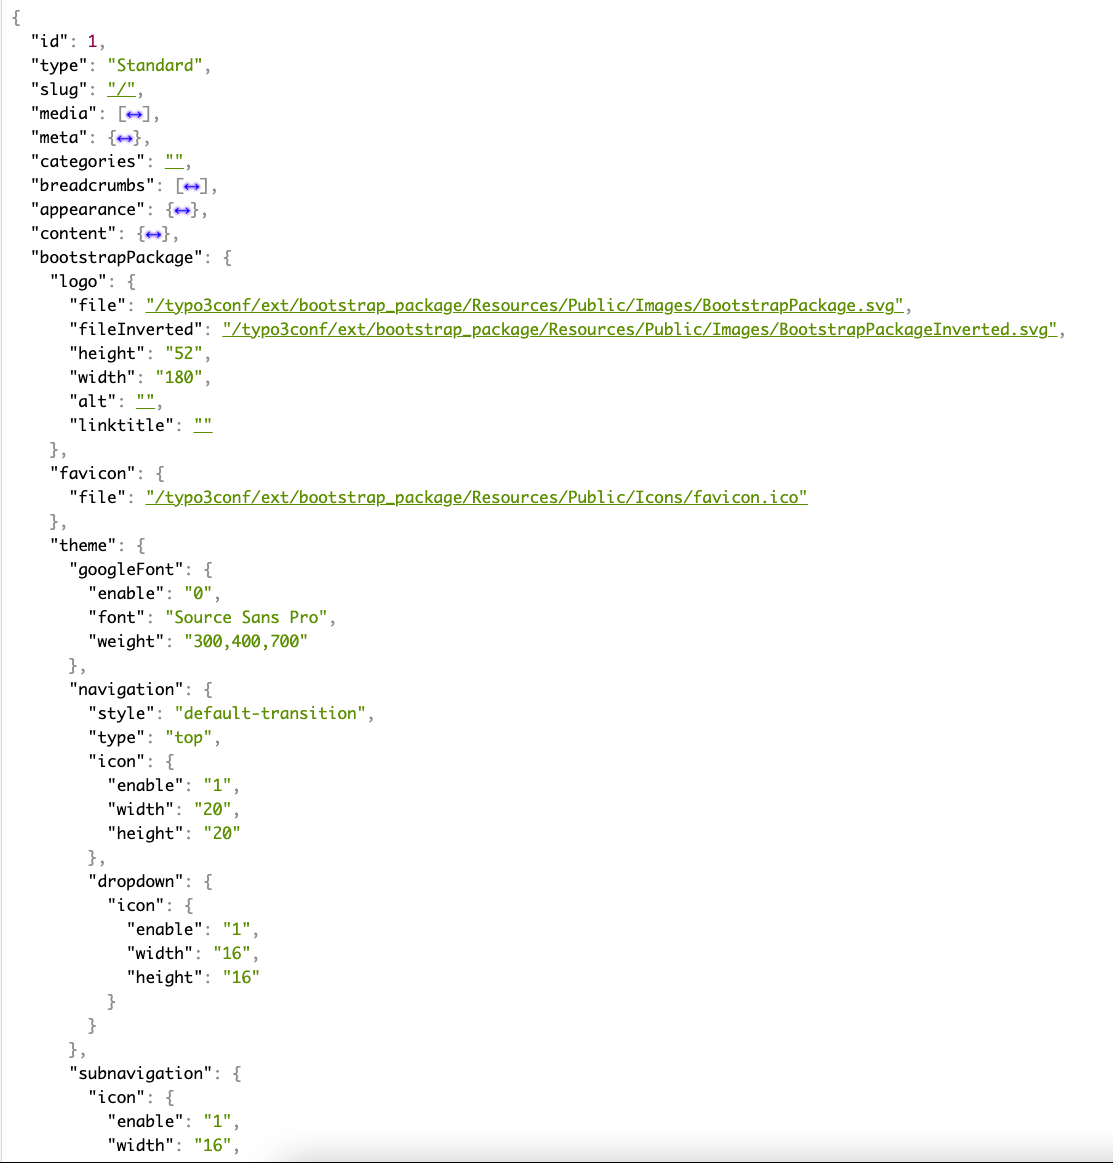
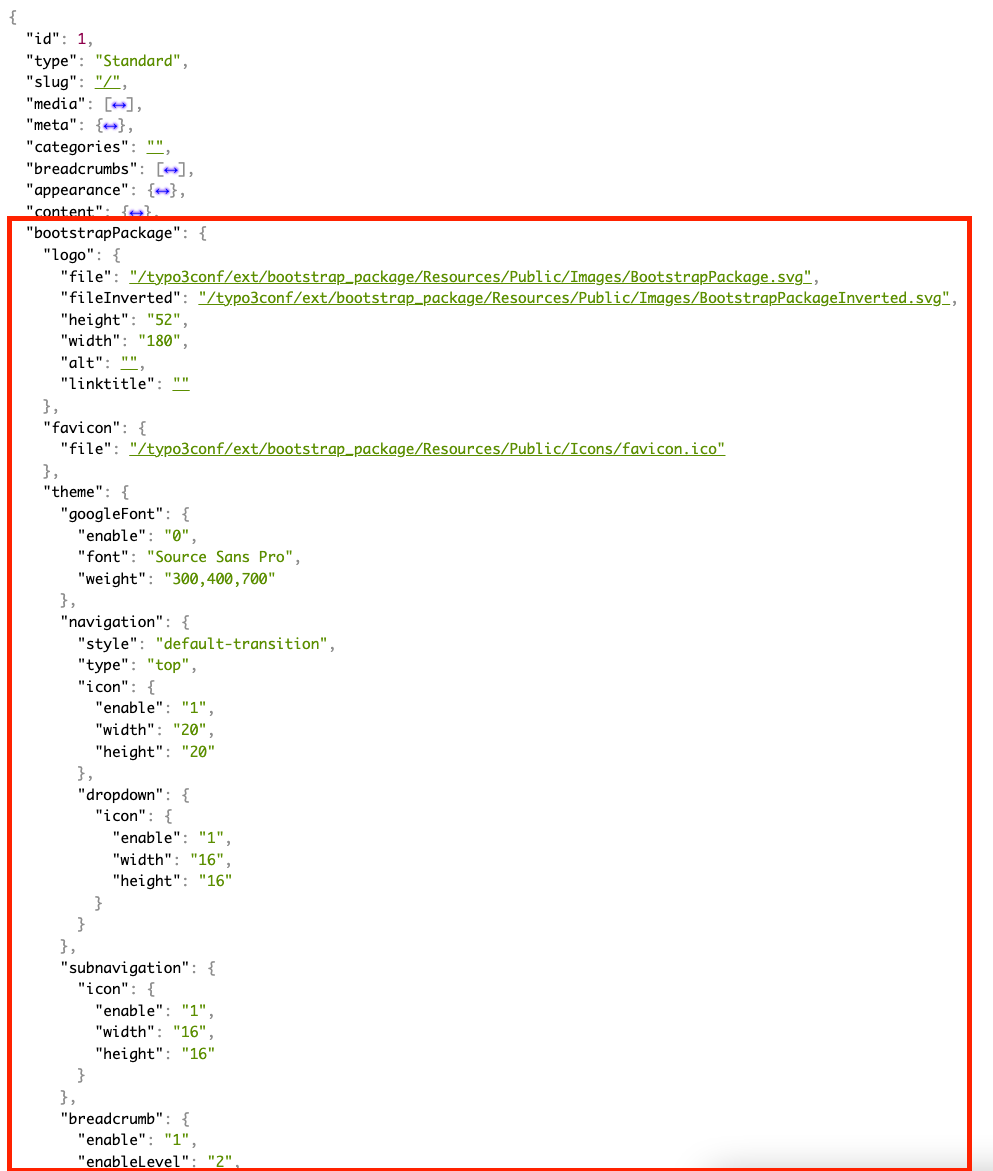
Fixed typo, added tests for page.meta fields and updated screenshots

Changed region(s): [[0.0, 0.031, 0.999, 1.0]]

diff --git a/Tests/Functional/BootstrapPackageConstantsInResponseTest.php b/Tests/Functional/BootstrapPackageConstantsInResponseTest.php
@@ -33,6 +33,7 @@ class BootstrapPackageConstantsInResponseTest extends BaseTest
         $this->checkFaviconData($config);
         $this->checkThemeData($config);
         $this->checkTrackingData($config);
+        $this->checkMetaData($fullTree['meta']);
     }
 
     /**
@@ -131,5 +132,17 @@ class BootstrapPackageConstantsInResponseTest extends BaseTest
         self::assertArrayHasKey('google', $config['tracking']);
         self::assertCount(1, $config['tracking']['google']);
         self::assertArrayHasKey('trackingID', $config['tracking']['google']);
+    }
+
+    /**
+     * @param array<string, mixed> $metaData
+     */
+    public function checkMetaData(array $metaData): void
+    {
+        self::assertEquals('width=device-width, initial-scale=1, minimum-scale=1', $metaData['viewport']);
+        self::assertEquals('index,follow', $metaData['robots']);
+        self::assertEquals('no', $metaData['appleMobileWebAppCapable']);
+        self::assertEquals('IE=edge', $metaData['compatible']);
+        self::assertEquals('testSiteVerificationData', $metaData['googleSiteVerification']);
     }
 }
